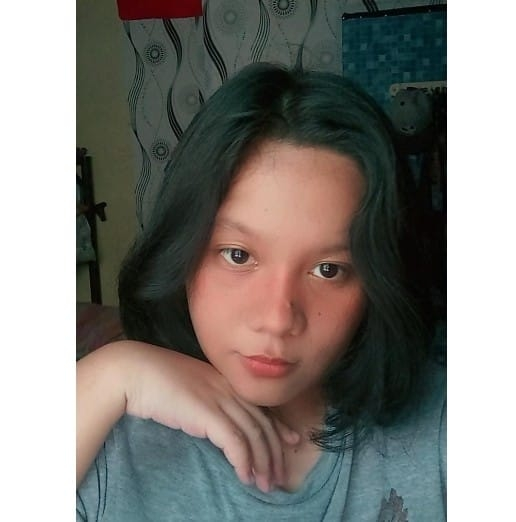
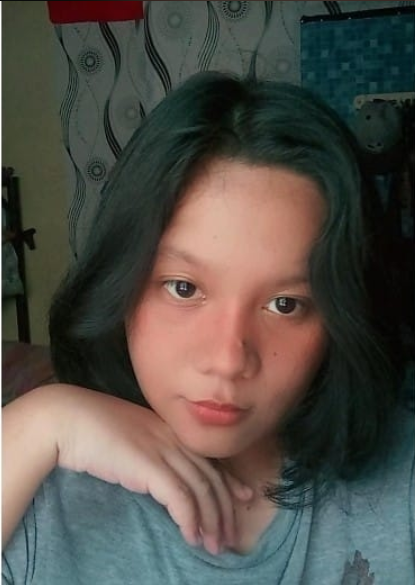
Added the information of one member in Web App. Also, the picture (K.png) was also changed.

diff --git a/health_snap/frontend/src/App.js b/health_snap/frontend/src/App.js
@@ -176,8 +176,24 @@ function App() {
 			</div>
 		</div>
 
-	</div>
+		<div class="box">
+			<img src="Images/K.png" alt=""/>
+			<h3>KIA</h3>
+			<span>DOCUMENTATION</span>
+			<div class="share">
+				<a href="https://www.facebook.com/malubagkia">
+				<FontAwesomeIcon icon={faFacebookF}/>
+				</a>
+				<a href="#">
+					<FontAwesomeIcon icon={faTwitter}/>
+				</a>
+				<a href="#">
+					<FontAwesomeIcon icon={faInstagram}/>
+				</a>
+			</div>
+		</div>
 
+	</div>
 </section>
 
 {/*!-- doctors section ends --*/}
